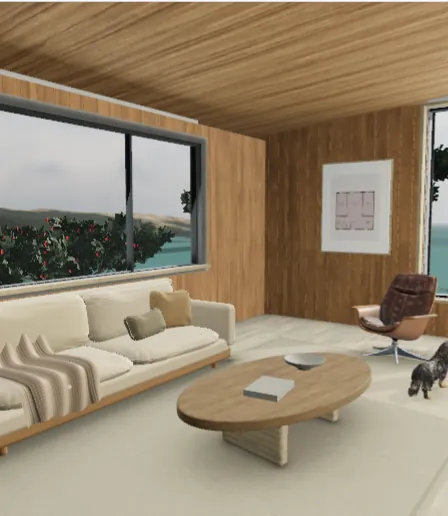
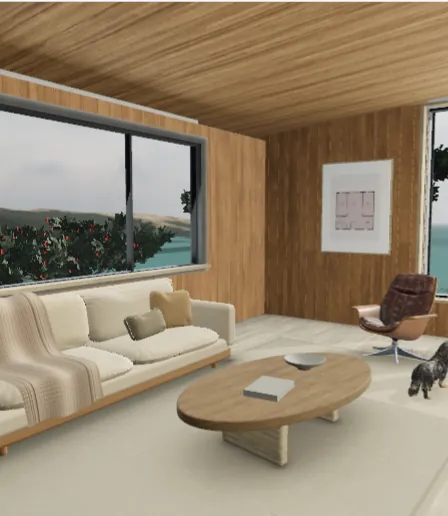
Fit the throw to the back cushion and resolve the linen weave at room scale

Changed region(s): [[0.0, 0.5581, 0.25, 0.8372]]

diff --git a/agency-home/pavilion/upholstery.js b/agency-home/pavilion/upholstery.js
@@ -15,7 +15,7 @@ export function cushion(width,height,depth,seed){
   const sag=.038*(1-x*x)*(y*.5+.5);
   const pinch=.019*Math.exp(-(((x+.23)*4)**2)-(((y-.79)*4)**2))+.014*Math.exp(-(((x-.61)*6)**2)-(((y+.74)*6)**2));
   return new T.Vector3(x*width*.5+.013*y*y*Math.sin(seed),y*height*.5-sag,
-    face*(full-.022*crease*r-pinch)+.009*x*y-.004*Math.cos(t*3+seed)*r*r);
+    face*Math.max(.005,full-.017*crease*r-pinch)+.009*x*y-.004*Math.cos(t*3+seed)*r*r);
  }
  for(const face of [1,-1]){
   const offset=vertices.length/3;
@@ -36,6 +36,15 @@ export function cushion(width,height,depth,seed){
 }
 export function linenSofa({mesh,cylinder,cloth,oak}){
  const sx=3.42,sz=-1.32,cream=cloth.clone();cream.color.setHex(0xd0c3ae);cream.roughness=.99;cream.sheen=.38;cream.normalScale.set(.59,.59);
+ // Resolve the slub of the reviewed linen scan at room scale and preserve its own normal field.
+ const swatch=document.createElement('canvas');swatch.width=swatch.height=384;
+ const paint=swatch.getContext('2d');paint.drawImage(cloth.map.image,0,0,384,384);
+ const pixels=paint.getImageData(0,0,384,384),mean=[202,197,183];
+ for(let i=0;i<pixels.data.length;i+=4)for(let c=0;c<3;c++){
+  pixels.data[i+c]=mean[c]+(pixels.data[i+c]-mean[c])*1.78;
+ }
+ paint.putImageData(pixels,0,0);cream.map=new T.CanvasTexture(swatch);cream.map.colorSpace=T.SRGBColorSpace;
+ cream.map.wrapS=cream.map.wrapT=T.RepeatWrapping;cream.map.repeat.set(2.8,2.8);cream.map.anisotropy=6;
  function rounded(x,y,z,w,h,d,r,m){return mesh(new RoundedBoxGeometry(w,h,d,4,r),m,x,y,z)}
  const welt=new T.MeshStandardMaterial({color:0xc3b9a5,roughness:.98});
  const timber=oak.clone();timber.color.setHex(0xbc9872);
@@ -63,12 +72,12 @@ export function linenSofa({mesh,cylinder,cloth,oak}){
  for(const j of [16,22,31,209,218,224]){c.fillStyle='#4a4a3f';c.fillRect(j,0,j%2?5:2,256)}
  const weave=new T.CanvasTexture(canvas);weave.colorSpace=T.SRGBColorSpace;
  const throwMat=new T.MeshStandardMaterial({map:weave,normalMap:cream.normalMap,normalScale:new T.Vector2(.53,.53),side:T.DoubleSide,roughness:.99});
- const profile=new T.CatmullRomCurve3([[.719,-.17],[.602,-.096],[.502,-.014],[.502,.16],[.499,.348],[.473,.411],[.336,.447],[.254,.457]].map(([y,z])=>new T.Vector3(0,y,z)));
+ const profile=new T.CatmullRomCurve3([[.842,-.34],[.926,-.266],[.915,-.203],[.855,-.136],[.709,-.091],[.593,-.057],[.505,.008],[.502,.16],[.499,.348],[.473,.411],[.336,.447],[.254,.457]].map(([y,z])=>new T.Vector3(0,y,z)));
  const textile=new T.PlaneGeometry(1,1,38,42),pos=textile.attributes.position,uv=textile.attributes.uv;
  for(let k=0;k<pos.count;k++){
   const u=uv.getX(k),v=1-uv.getY(k),d=profile.getPoint(v);
-  const folds=Math.sin(u*27+v*3+.64*Math.sin(v*6))*.017+Math.sin(u*11-v)*.009,front=Math.max(0,(v-.63)/.37);
-  pos.setXYZ(k,-.77+(u-.5)*.60+v*.092+.012*Math.sin(v*8+u*4),d.y+(folds+.018)*(1-front)+.015*Math.sin(u*8)*front,d.z+folds*(.47+front*.45));
+  const folds=Math.sin(u*16+v*2.1+.83*Math.sin(v*5))*.012+Math.sin(u*7-v)*.009,front=Math.max(0,(v-.63)/.37);
+  pos.setXYZ(k,-.77+(u-.5)*.60+v*.092+.012*Math.sin(v*8+u*4),d.y+(folds+.018)*(1-front)+.015*Math.sin(u*8)*front,d.z+folds*(.47+front*.45)+.012*(1-front));
  }
  textile.computeVertexNormals();mesh(textile,throwMat,sx,0,sz);
 }

diff --git a/agency-home/pavilion/app.js b/agency-home/pavilion/app.js
@@ -190,11 +190,11 @@ function loadWorld(automatic=false){
  if(pending){
   if(automatic)return;
   if(pending.controller.signal.aborted){pending.retry=true;return}
-  if(pending.automatic){pending.automatic=false;clearTimeout(pending.timeout);const job=pending;job.timeout=setTimeout(()=>expireLoad(job),12000)}enter.disabled=true;note.textContent='Opening the pavilion…';return;
+  if(pending.automatic){pending.automatic=false;clearTimeout(pending.timeout);const job=pending;job.timeout=setTimeout(()=>expireLoad(job),35000)}enter.disabled=true;note.textContent='Opening the pavilion…';return;
  }
  const job={controller:new AbortController(),automatic,retry:false};
  pending=job;automaticTried=true;vista.toggleAttribute('data-warming',automatic);
- job.timeout=setTimeout(()=>expireLoad(job),automatic?7000:12000);
+ job.timeout=setTimeout(()=>expireLoad(job),automatic?7000:35000);
  if(!automatic){enter.disabled=true;note.textContent='Opening the pavilion…'}
  start(job.controller.signal).then(()=>{if(job.automatic&&eligible()&&!job.interacted)startTour()}).catch(()=>{
   staticMode(job.controller.signal.reason||'renderer unavailable');
